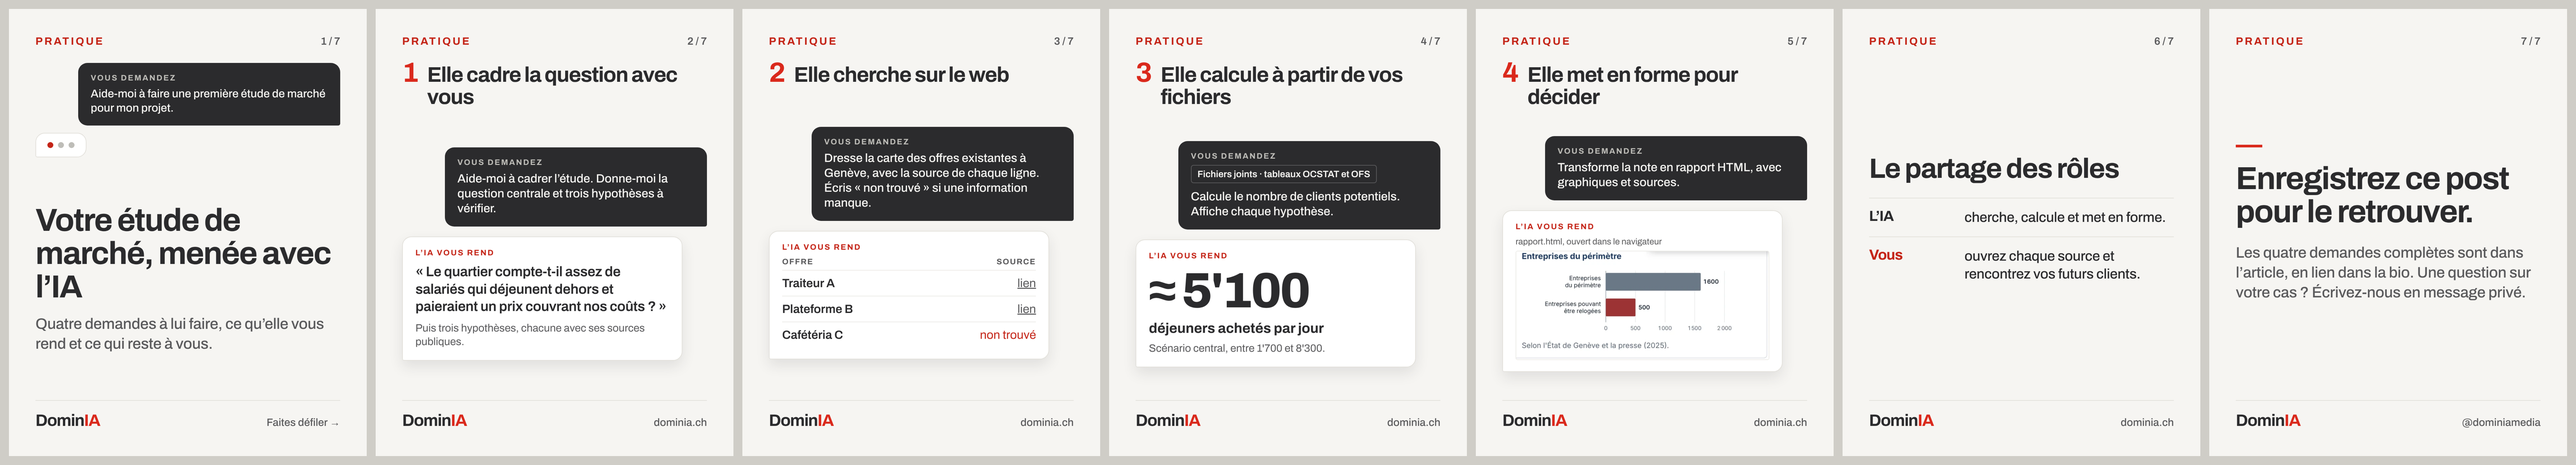
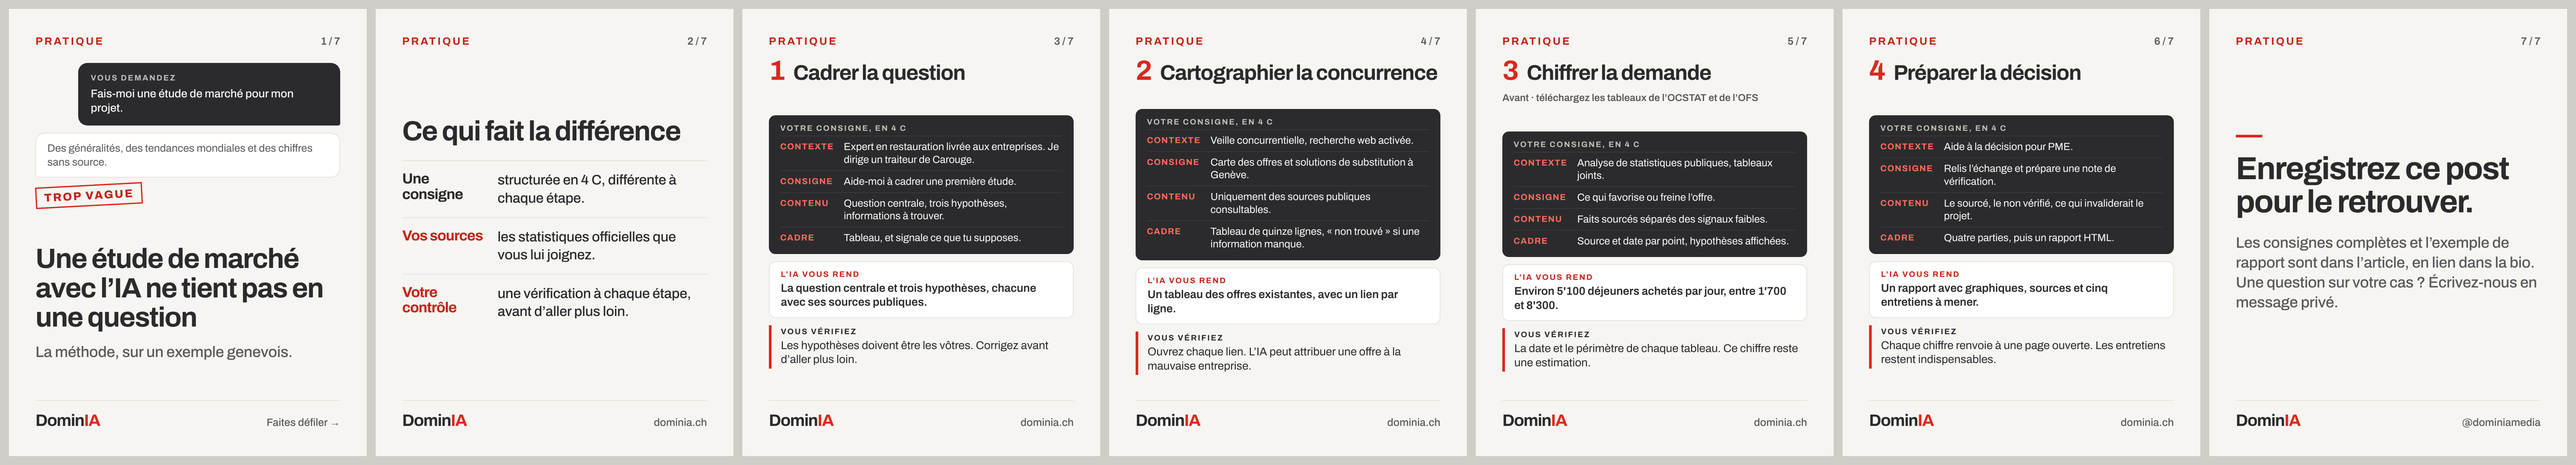
Carrousel étude de marché v5 : consignes en 4 C et vérifications à chaque étape
Claude-Session: https://claude.ai/code/session_01QYrK9tD2HXR82baoKRbr2J

diff --git a/gabarits/generer.py b/gabarits/generer.py
@@ -243,10 +243,9 @@ def couverture_ia(v):
     c = CLAIR; w, h = 1080, 1350
     corps = f"""<div class='cadre'>
       {tete(v, v['rubrique'], 1)}
-      <div style='margin-top:48px'>
+      <div style='margin-top:48px;display:flex;flex-direction:column'>
         {bulle_vous(v['demande'], None, 34)}
-        <div style='display:flex;margin-top:22px'><div style='background:#FFFFFF;border:2px solid #E2E0DA;border-radius:28px 28px 28px 6px;padding:26px 34px;display:flex;gap:14px'>
-          <div style='width:18px;height:18px;border-radius:50%;background:#C42518'></div><div style='width:18px;height:18px;border-radius:50%;background:#BEBDB8'></div><div style='width:18px;height:18px;border-radius:50%;background:#BEBDB8'></div></div></div>
+        {f"<div style='display:flex;margin-top:22px'><div style='background:#FFFFFF;border:2px solid #E2E0DA;border-radius:28px 28px 28px 6px;padding:24px 34px;font-size:32px;color:#5A5A5C;line-height:1.3'>{e(v['reponse_vague'])}</div></div><div style='margin-top:22px;display:inline-block;align-self:flex-start;border:4px solid #DA291C;color:#C42518;font-weight:800;font-size:34px;letter-spacing:.12em;text-transform:uppercase;padding:10px 22px;transform:rotate(-3deg)'>{e(v['verdict'])}</div>" if v.get('verdict') else "<div style='display:flex;margin-top:22px'><div style='background:#FFFFFF;border:2px solid #E2E0DA;border-radius:28px 28px 28px 6px;padding:26px 34px;display:flex;gap:14px'><div style='width:18px;height:18px;border-radius:50%;background:#C42518'></div><div style='width:18px;height:18px;border-radius:50%;background:#BEBDB8'></div><div style='width:18px;height:18px;border-radius:50%;background:#BEBDB8'></div></div></div>"}
       </div>
       <div class='milieu'>
         <div class='titre' style='font-size:{tt(v['titre'],96,84,72)}px'>{e(v['titre'])}</div>
@@ -269,7 +268,38 @@ def lecon(v):
     </div>"""
     return page(base(c, w, h), corps), (w, h)
 
-GABARITS = dict(echange=echange, couverture_ia=couverture_ia, lecon=lecon, demo=demo, couverture=couverture, etape=etape, fait=fait, fin=fin, cas=cas, agenda=agenda, actualite=actualite)
+def etape_methode(v):
+    """Étape de méthode IA : la consigne structurée (4 C), ce que l'IA rend, ce que vous vérifiez. Univers clair.
+    Champs : rubrique, position, total, numero, titre, avant (facultatif), consigne [[label, texte]x4], rend, verifie"""
+    c = CLAIR; w, h = 1080, 1350
+    avant = f"<div style='font-size:30px;font-weight:600;margin-top:26px;color:{c['douce']}'>Avant · {e(v['avant'])}</div>" if v.get("avant") else ""
+    lignes = "".join(f"<div style='display:flex;gap:22px;padding:13px 0;border-top:1px solid #4A4A4E'><div style='width:170px;flex:none;font-size:26px;font-weight:700;letter-spacing:.08em;text-transform:uppercase;color:#FF6B5C;padding-top:4px'>{e(a)}</div><div style='font-size:31px;line-height:1.25'>{e(b)}</div></div>" for a, b in v["consigne"])
+    corps = f"""<div class='cadre'>
+      {tete(v, v['rubrique'], v.get('position'))}
+      <div style='display:flex;align-items:baseline;gap:26px;margin-top:34px'>
+        <div class='titre' style='font-size:84px;line-height:.9;color:{c['rouge']}'>{e(v['numero'])}</div>
+        <div class='titre' style='font-size:{tt(v['titre'],64,56,50)}px'>{e(v['titre'])}</div>
+      </div>
+      {avant}
+      <div class='milieu' style='gap:22px'>
+        <div style='background:#2B2B2D;color:#F6F5F2;border-radius:20px;padding:26px 34px 16px'>
+          <div style='font-size:24px;font-weight:700;letter-spacing:.14em;text-transform:uppercase;color:#BEBDB8;margin-bottom:10px'>Votre consigne, en 4 C</div>
+          {lignes}
+        </div>
+        <div style='background:#FFFFFF;border:2px solid {c['filet']};border-radius:20px;padding:24px 34px'>
+          <div style='font-size:24px;font-weight:700;letter-spacing:.14em;text-transform:uppercase;color:{c['rougeTexte']};margin-bottom:8px'>L’IA vous rend</div>
+          <div style='font-size:34px;line-height:1.25;font-weight:600'>{e(v['rend'])}</div>
+        </div>
+        <div style='border-left:8px solid {c['rouge']};padding:6px 0 6px 28px'>
+          <div style='font-size:24px;font-weight:700;letter-spacing:.14em;text-transform:uppercase;color:{c['encre']};margin-bottom:8px'>Vous vérifiez</div>
+          <div style='font-size:34px;line-height:1.25'>{e(v['verifie'])}</div>
+        </div>
+      </div>
+      {pied(c)}
+    </div>"""
+    return page(base(c, w, h), corps), (w, h)
+
+GABARITS = dict(etape_methode=etape_methode, echange=echange, couverture_ia=couverture_ia, lecon=lecon, demo=demo, couverture=couverture, etape=etape, fait=fait, fin=fin, cas=cas, agenda=agenda, actualite=actualite)
 
 async def main(spec, sortie):
     global RACINE
